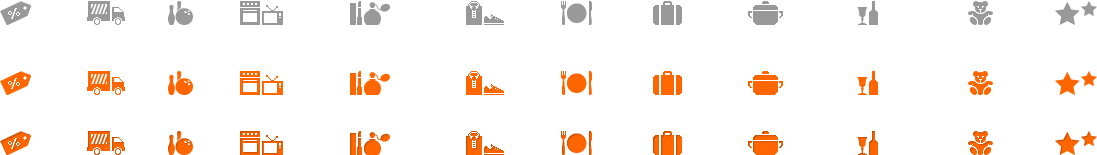
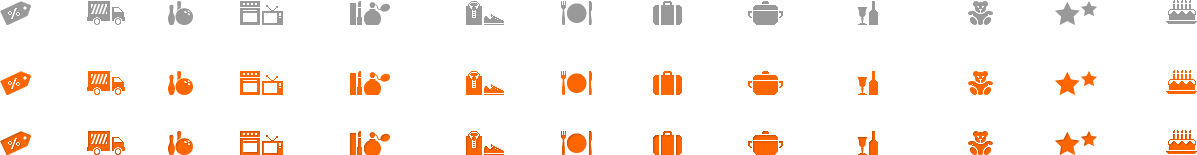
add birthday kind into discount

diff --git a/app/assets/stylesheets/public/_discount_filters.sass b/app/assets/stylesheets/public/_discount_filters.sass
@@ -217,16 +217,16 @@
 
           &.cafe
             a
-              background-position: -818px 0px
+              background-position: -815px 0px
 
               &:hover
-                background-position: -818px -70px
+                background-position: -815px -70px
 
             &.selected a
-              background-position: -818px -130px
+              background-position: -815px -130px
 
               &:hover
-                background-position: -818px -70px
+                background-position: -815px -70px
 
           &.entertainment
             a
@@ -256,29 +256,29 @@
 
           &.beauty
             a
-              background-position: -310px 0px
+              background-position: -306px 0px
 
               &:hover
-                background-position: -310px -70px
+                background-position: -306px -70px
 
             &.selected a
-              background-position: -310px -130px
+              background-position: -306px -130px
 
               &:hover
-                background-position: -310px -70px
+                background-position: -306px -70px
 
           &.wear
             a
-              background-position: -445px 0px
+              background-position: -432px 0px
 
               &:hover
-                background-position: -445px -70px
+                background-position: -432px -70px
 
             &.selected a
-              background-position: -445px -130px
+              background-position: -432px -130px
 
               &:hover
-                background-position: -445px -70px
+                background-position: -432px -70px
 
           &.meal
             a
@@ -292,6 +292,19 @@
 
               &:hover
                 background-position: -560px -70px
+
+          &.birthday
+            a
+              background-position: -1142px 0px
+
+              &:hover
+                background-position: -1142px -70px
+
+            &.selected a
+              background-position: -1142px -130px
+
+              &:hover
+                background-position: -1142px -70px
 
           &.travel
             a

diff --git a/db/schema.rb b/db/schema.rb
@@ -275,34 +275,6 @@ ActiveRecord::Schema.define(:version => 20140110054933) do
   add_index "copies", ["copyable_id"], :name => "index_copies_on_copyable_id"
   add_index "copies", ["copyable_type"], :name => "index_copies_on_copyable_type"
 
-  create_table "coupons", :force => true do |t|
-    t.string   "title"
-    t.text     "description"
-    t.integer  "discount"
-    t.string   "vfs_path"
-    t.integer  "organization_id"
-    t.datetime "created_at",             :null => false
-    t.datetime "updated_at",             :null => false
-    t.string   "image_file_name"
-    t.string   "image_content_type"
-    t.integer  "image_file_size"
-    t.datetime "image_updated_at"
-    t.text     "image_url"
-    t.integer  "price_with_discount"
-    t.integer  "price_without_discount"
-    t.integer  "organization_quota"
-    t.integer  "price"
-    t.string   "kind"
-    t.string   "place"
-    t.integer  "number"
-    t.datetime "stale_at"
-    t.datetime "complete_at"
-    t.text     "categories"
-    t.text     "affiliate_url"
-  end
-
-  add_index "coupons", ["organization_id"], :name => "index_coupons_on_organization_id"
-
   create_table "creations", :force => true do |t|
     t.integer  "organization_id"
     t.string   "title"

diff --git a/app/models/discounts/discount.rb b/app/models/discounts/discount.rb
@@ -46,7 +46,7 @@ class Discount < ActiveRecord::Base
 
   extend Enumerize
   serialize :kind, Array
-  enumerize :kind, :in => [:auto, :cafe, :entertainment, :beauty, :technique, :wear, :travel, :home, :children, :other],
+  enumerize :kind, :in => [:auto, :cafe, :entertainment, :beauty, :technique, :wear, :birthday, :home, :children, :other],
                    :multiple => true,
                    :predicates => true
 
